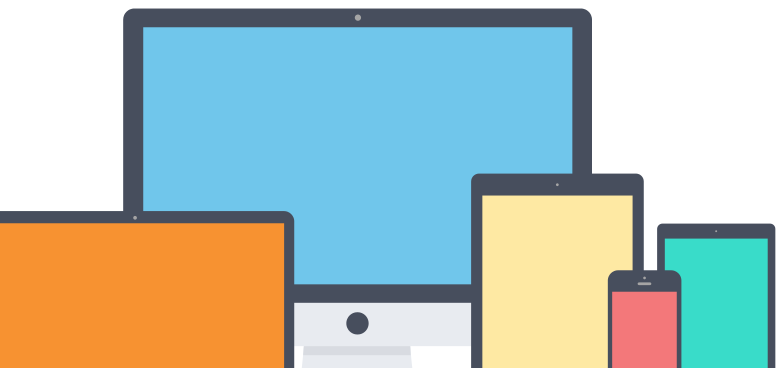
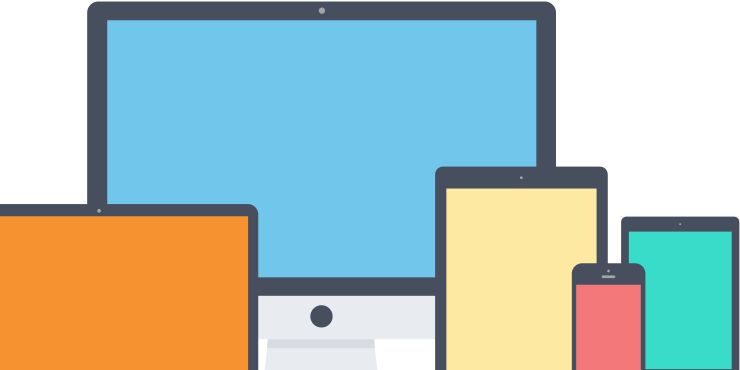
lined up pixels for last content, finished bottom or page

Changed region(s): [[0.0, 0.0, 0.8392, 1.0], [0.7459, 0.538, 1.0, 1.0], [0.4973, 0.9266, 0.5284, 0.9864]]

diff --git a/app/styles/tyler-phillips-test.scss b/app/styles/tyler-phillips-test.scss
@@ -172,7 +172,7 @@ body {
 
 .download {
 	border: solid 2px white;
-	border-radius: 5px;
+	border-radius: 2px;
 	width: 155px;
 	font-size: 14px;
 	padding: 15px 6px;
@@ -242,7 +242,7 @@ body {
 
 .say-hello {
 	border: solid 2px #14af8f;
-	border-radius: 5px;
+	border-radius: 2px;
 	width: 155px;
 	font-size: 14px;
 	padding: 16px 33px;
@@ -271,42 +271,48 @@ body {
 .content-three {
 	background-color: white;
 	width: 1250px;
-	height: 650px;
+	height: 640px;
 	padding-top: 10px;
 }
 
 .content-text-three {
-	width: 370px;
+	width: 393px;
 	float: right;
 	padding-top: 60px;
 	padding-right: 160px;
 	font-size: 16px;
 	line-height: 25px;
+	margin-top: 6px;
+	margin-right: 0px;
 }
 
 .content-three-head {
 	color: $header-gray;
-	font-size: 30px;
-	font-weight: lighter;
-	padding-bottom: 10px;
+	letter-spacing: 1px;
+	font-size: 36px;
+	padding-bottom: 13px;
+	font-weight: 100;
 }
 
 .para-one-three {
 	color: $blue-gray;
 	font-style: italic;
-	font-weight: 700;
+	font-weight: 600;
+	letter-spacing: 1px;
+	padding-bottom: 10px;
 }
 
 .para-two-three {
 	color: $para-gray;
+	padding-bottom: 15px;
 }
 
 .dribble {
-	border: solid 3px $dribble-pink;
-	border-radius: 5px;
+	border: solid 2px $dribble-pink;
+	border-radius: 2px;
 	width: 155px;
-	font-size: 16px;
-	padding: 15px;
+	font-size: 15px;
+	padding: 17px 31px;
 	text-align: center;
 	letter-spacing: 1px;
 	font-weight: lighter;
@@ -315,39 +321,52 @@ body {
 	top: 40px;
 	position: relative;
 	text-transform: uppercase;
+	margin-left: 2px;
+
+}
+
+.fa-dribbble {
+	font-size: 16px;
+	margin-left: 2px;
 }
 
 .devices {
-	margin-top: -70px;
+	margin-top: -76px;
+	margin-left: 0px;
+	width: 752px;
+	height: 370px;
 }
 
 .content-four {
-	height: 320px;
+	height: 324px;
 	background-color: $donate-green;
 	text-align: center;
-	padding-top: 10px;
+	padding-top: 1px;
+	margin-top: 0px;
 }
 
 .like {
 	color: white;
-	font-size: 30px;
+	font-size: 38px;
 	font-weight: 300;
-	padding-top: 70px;
-	letter-spacing: 2px;
+	padding-top: 53px;
+	letter-spacing: 1px;
+	margin-left: -5px;
+
 }
 
 .donate {
-	border: solid 3px white;
-	border-radius: 5px;
+	border: solid 2px white;
+	border-radius: 2px;
 	width: 155px;
-	font-size: 16px;
-	padding: 15px;
+	font-size: 14px;
+	padding: 17px 35px;
 	text-align: center;
-	letter-spacing: 1px;
+	letter-spacing: 1.5px;
 	font-weight: lighter;
 	color: white;
 	text-decoration: none;
-	top: 40px;
+	top: 16px;
 	position: relative;
 	text-transform: uppercase;
 }
@@ -355,7 +374,7 @@ body {
 .beer {
 	font-style: italic;
 	font-family: sans-serif;
-	font-weight: bold;
+	font-weight: 800;
 	font-size: 15px;
 }
 
@@ -367,14 +386,14 @@ body {
 
 .five-icons {
 	color: $header-gray;
-	font-size: 30px;
-	border: solid 4px $header-gray;
+	font-size: 24px;
+	border: solid 3px $header-gray;
 	border-radius: 90px;
 	padding: 15px;
-	width: 30px;
-	height: 28px;
-	margin-right: 35px;
-	margin-top: 240px;
+	width: 21px;
+	height: 22px;
+	margin-right: 30px;
+	margin-top: 241px;
 }
 
 .fa-plane {
@@ -383,35 +402,55 @@ body {
 
 .newsletter {
 	display: inline-block;
-	font-size: 16px;
+	font-size: 14px;
 	color: $header-gray;
-	margin-top: 70px;
+	margin-top: 61px;
 	font-style: italic;
 	font-family: $proximaNovaAlt;
 	font-weight: 700;
-	letter-spacing: 1px;
+	letter-spacing: 2px;
 }
 
 .email {
 	color: rgb(211,211,211);
 	display: inline-block;
 	padding: 15px;
-	margin-left: 30px;
+	margin-left: 12px;
 	border: none;
 	border-radius: 10px 0px 0px 10px;
-	font-size: 16px;
-
+	font-size: 14px;
 }
 
 .email-icon {
 	color: $lb-background;
 	background: white;
-	width: 35px;
-	height: 16px;
-	padding: 15px;
+	width: 24px;
+	height: 19px;
+	padding: 12px;
 	border-radius: 0px 10px 10px 0px;
-	margin-left: -7px;
-	padding-top: 17px;
+	margin-left: -25px;
+	padding-top: 14px;
 }
 
+.content-six {
+	height: 55px;
+	background: white;
+	text-align: center;
+	padding-top: 50px;
+	font-size: 12px;
+	letter-spacing: .5px;
+}
+
+.copyright {
+
+}
+
+.perth {
+	display: inline-block;
+
+}
+.copyright-text {
+	display: inline-block;
+	font-style: italic;
+}
  

diff --git a/app/index.html b/app/index.html
@@ -154,9 +154,13 @@
                 
             </div>
 
-            <a href="#" id="surprise-show" class="showLink" onclick="showHide('surprise');return false;">See more.</a>
-             <div id="surprise" class="more">
-         <p>Congratulations! You've found the magic hidden text! Clicking the link below will hide this content again.</p><p><a href="#" id="surprise-hide" class="hideLink" onclick="showHide('surprise');return false;">Hide this content.</a></p></div>
+
+            <div class="content-six">
+                <div class="copyright">
+                    © 2013 <a href="#" class="perth">Perth.</a>
+                    <div class="copyright-text"> Breeding pixels since the naughties.</div>
+                </div>
+            </div>
 
         </div>
 
